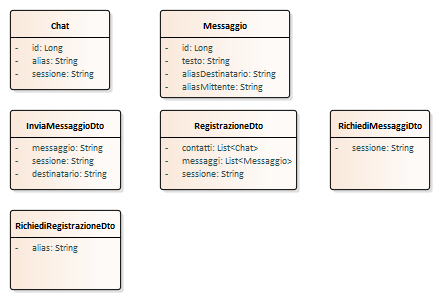
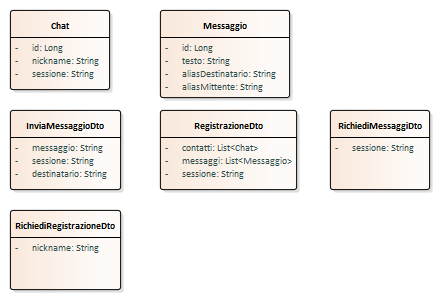
Aggiornato UML. Aggiunta creazione back-end per registrazione nickname.

Changed region(s): [[0.0591, 0.18, 0.2364, 0.24], [0.0591, 0.81, 0.2364, 0.84]]

diff --git a/uml/EARoot/EA3/EA27.htm b/uml/EARoot/EA3/EA27.htm
@@ -36,11 +36,11 @@ function nameClassifier(name, separator)
 <img src="EA28.png" usemap="#EA28" border="0" />
 
 <MAP NAME="EA28">
-<area shape="rect" coords="318,125,423,195" href="EA30.htm" target="_self">
-<area shape="rect" coords="290,10,395,80" href="EA32.htm" target="_self">
-<area shape="rect" coords="150,10,255,80" href="EA31.htm" target="_self">
-<area shape="rect" coords="10,10,115,80" href="EA33.htm" target="_self">
-<area shape="rect" coords="200,120,245,210" href="EA34.htm" target="_self">
+<area shape="rect" coords="319,125,424,195" href="EA30.htm" target="_self">
+<area shape="rect" coords="291,10,396,80" href="EA32.htm" target="_self">
+<area shape="rect" coords="151,10,256,80" href="EA31.htm" target="_self">
+<area shape="rect" coords="10,11,115,81" href="EA33.htm" target="_self">
+<area shape="rect" coords="201,120,246,210" href="EA34.htm" target="_self">
 </MAP>
 
 	<div class="ObjectTitle">Use cases : Use Case diagram</div>
@@ -51,7 +51,7 @@ function nameClassifier(name, separator)
 		</tr>
 		<tr>
 			<td width="15%" class="ObjectDetailsTopic">Modified:</td>
-			<td width="85%" class="ObjectDetailsValue">06/05/2019 09:23:26</td>
+			<td width="85%" class="ObjectDetailsValue">04/07/2019 17:03:51</td>
 		</tr>
 		<tr style="padding-top: 10px;">
 			<td width="15%" class="ObjectDetailsTopic"><img src="../../images/plus03.gif" align="absmiddle" id="proj" onclick="parent.toggleData(this.id)" />Project:</td>

diff --git a/uml/EARoot/EA1/EA9.htm b/uml/EARoot/EA1/EA9.htm
@@ -2,7 +2,7 @@
 <html xmlns="http://www.w3.org/1999/xhtml">
 <head>
 <meta http-equiv="Content-Type" content="text/html; charset=UTF-8" />
-<title>Concepts::RichiediRegistrazioneDto</title>
+<title>RichiediRegistrazioneDto</title>
 <link href="../../css/ea.css" rel="stylesheet" type="text/css" />
 <script>
 function initPage(src) {	
@@ -106,7 +106,7 @@ function nameClassifier(name, separator)
 		</tr>
 						<tr>
 				<td width="100%" class="TableRow">
-					<i>Private String</i><br /><strong>&nbsp;&nbsp;alias</strong>
+					<i>Private String</i><br /><strong>&nbsp;&nbsp;nickname</strong>
 				</td>
 			</tr>
 			<tr>

diff --git a/uml/EARoot/EA1/EA4.htm b/uml/EARoot/EA1/EA4.htm
@@ -2,7 +2,7 @@
 <html xmlns="http://www.w3.org/1999/xhtml">
 <head>
 <meta http-equiv="Content-Type" content="text/html; charset=UTF-8" />
-<title>Concepts::Chat</title>
+<title>Chat</title>
 <link href="../../css/ea.css" rel="stylesheet" type="text/css" />
 <script>
 function initPage(src) {	
@@ -154,7 +154,7 @@ function nameClassifier(name, separator)
 				</td>
 			</tr>			<tr>
 				<td width="100%" class="TableRow">
-					<i>Private String</i><br /><strong>&nbsp;&nbsp;alias</strong>
+					<i>Private String</i><br /><strong>&nbsp;&nbsp;nickname</strong>
 				</td>
 			</tr>
 			<tr>

diff --git a/uml/EARoot/EA2/EA1/EA12.htm b/uml/EARoot/EA2/EA1/EA12.htm
@@ -58,7 +58,7 @@ function nameClassifier(name, separator)
 		</tr>
 		<tr>
 			<td width="15%" class="ObjectDetailsTopic">Modified:</td>
-			<td width="85%" class="ObjectDetailsValue">07/05/2019 15:59:13</td>
+			<td width="85%" class="ObjectDetailsValue">04/07/2019 17:03:51</td>
 		</tr>
 		<tr style="padding-top: 10px;">
 			<td width="15%" class="ObjectDetailsTopic"><img src="../../../images/plus03.gif" align="absmiddle" id="proj" onclick="parent.toggleData(this.id)" />Project:</td>

diff --git a/uml/EARoot/EA1/EA1.htm b/uml/EARoot/EA1/EA1.htm
@@ -52,7 +52,7 @@ function nameClassifier(name, separator)
 		</tr>
 		<tr>
 			<td width="15%" class="ObjectDetailsTopic">Modified:</td>
-			<td width="85%" class="ObjectDetailsValue">06/05/2019 09:23:26</td>
+			<td width="85%" class="ObjectDetailsValue">04/07/2019 17:03:51</td>
 		</tr>
 		<tr style="padding-top: 10px;">
 			<td width="15%" class="ObjectDetailsTopic"><img src="../../images/plus03.gif" align="absmiddle" id="proj" onclick="parent.toggleData(this.id)" />Project:</td>

diff --git a/uml/EARoot/EA4/EA35.htm b/uml/EARoot/EA4/EA35.htm
@@ -57,7 +57,7 @@ function nameClassifier(name, separator)
 		</tr>
 		<tr>
 			<td width="15%" class="ObjectDetailsTopic">Modified:</td>
-			<td width="85%" class="ObjectDetailsValue">06/05/2019 09:23:26</td>
+			<td width="85%" class="ObjectDetailsValue">04/07/2019 17:03:50</td>
 		</tr>
 		<tr style="padding-top: 10px;">
 			<td width="15%" class="ObjectDetailsTopic"><img src="../../images/plus03.gif" align="absmiddle" id="proj" onclick="parent.toggleData(this.id)" />Project:</td>

diff --git a/uml/index.htm b/uml/index.htm
@@ -6,7 +6,7 @@
 <link href="css/ea.css" rel="stylesheet" type="text/css" />
 <script language="JavaScript" src="js/displayToc.js" type="text/javascript"></script>
 </head>
-<body onload="initLoad(this,'toc.htm','blank.htm')" onresize="resizePage()">
+<body onload="initLoad(this,'toc.htm','./EARoot/EA1/EA1.htm')" onresize="resizePage()">
 <div class="IndexTitle">
 	KeZapp
 </div>

diff --git a/uml/EARoot/EA1/EA8.htm b/uml/EARoot/EA1/EA8.htm
@@ -2,7 +2,7 @@
 <html xmlns="http://www.w3.org/1999/xhtml">
 <head>
 <meta http-equiv="Content-Type" content="text/html; charset=UTF-8" />
-<title>Concepts::RichiediMessaggiDto</title>
+<title>RichiediMessaggiDto</title>
 <link href="../../css/ea.css" rel="stylesheet" type="text/css" />
 <script>
 function initPage(src) {	

diff --git a/uml/EARoot/EA1/EA5.htm b/uml/EARoot/EA1/EA5.htm
@@ -2,7 +2,7 @@
 <html xmlns="http://www.w3.org/1999/xhtml">
 <head>
 <meta http-equiv="Content-Type" content="text/html; charset=UTF-8" />
-<title>Concepts::InviaMessaggioDto</title>
+<title>InviaMessaggioDto</title>
 <link href="../../css/ea.css" rel="stylesheet" type="text/css" />
 <script>
 function initPage(src) {	

diff --git a/uml/EARoot/EA1/EA7.htm b/uml/EARoot/EA1/EA7.htm
@@ -2,7 +2,7 @@
 <html xmlns="http://www.w3.org/1999/xhtml">
 <head>
 <meta http-equiv="Content-Type" content="text/html; charset=UTF-8" />
-<title>Concepts::RegistrazioneDto</title>
+<title>RegistrazioneDto</title>
 <link href="../../css/ea.css" rel="stylesheet" type="text/css" />
 <script>
 function initPage(src) {	

diff --git a/uml/EARoot/EA1/EA6.htm b/uml/EARoot/EA1/EA6.htm
@@ -2,7 +2,7 @@
 <html xmlns="http://www.w3.org/1999/xhtml">
 <head>
 <meta http-equiv="Content-Type" content="text/html; charset=UTF-8" />
-<title>Concepts::Messaggio</title>
+<title>Messaggio</title>
 <link href="../../css/ea.css" rel="stylesheet" type="text/css" />
 <script>
 function initPage(src) {	

diff --git a/server/src/main/java/it/digidgroup/kezapp02/model/Messaggio0.java b/server/src/main/java/it/digidgroup/kezapp02/model/Messaggio0.java
@@ -1,0 +1,55 @@
+package it.digidgroup.kezapp02.model;
+
+import javax.persistence.Column;
+import javax.persistence.Entity;
+import javax.persistence.GeneratedValue;
+import javax.persistence.GenerationType;
+import javax.persistence.Id;
+
+@Entity
+public class Messaggio0 {
+
+    @Id
+    @GeneratedValue(strategy = GenerationType.AUTO)
+    private Long id;
+    @Column
+    private String testo;
+    @Column
+    private String aliasDestinatario;
+    @Column
+    private String aliasMittente;
+
+    public Long getId() {
+        return id;
+    }
+
+    public void setId(Long id) {
+        this.id = id;
+    }
+
+    public String getTesto() {
+        return testo;
+    }
+
+    public void setTesto(String testo) {
+        this.testo = testo;
+    }
+
+    public String getAliasDestinatario() {
+        return aliasDestinatario;
+    }
+
+    public void setAliasDestinatario(String aliasDestinatario) {
+        this.aliasDestinatario = aliasDestinatario;
+    }
+
+    public String getAliasMittente() {
+        return aliasMittente;
+    }
+
+    public void setAliasMittente(String aliasMittente) {
+        this.aliasMittente = aliasMittente;
+    }
+    
+    
+}
